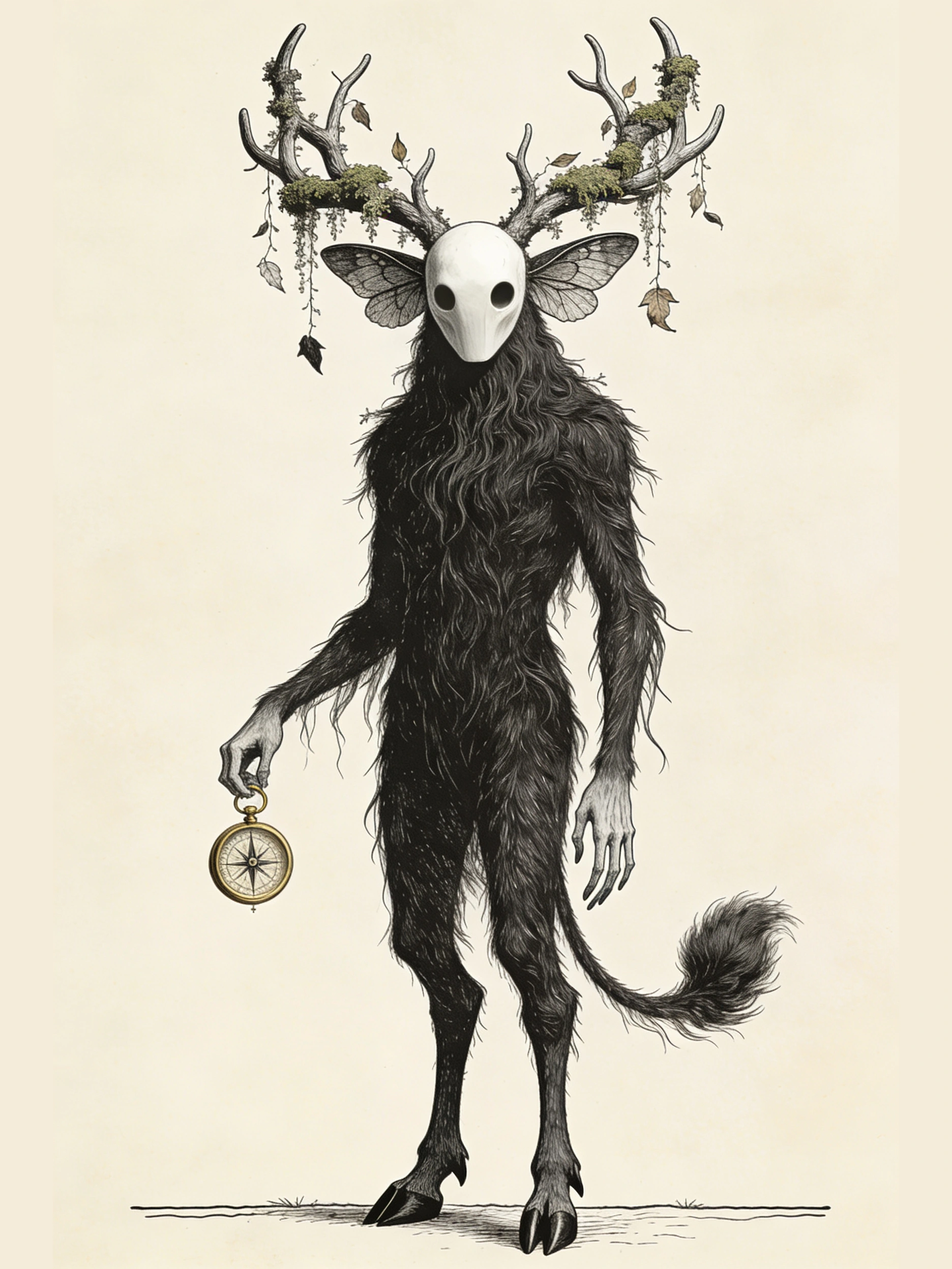
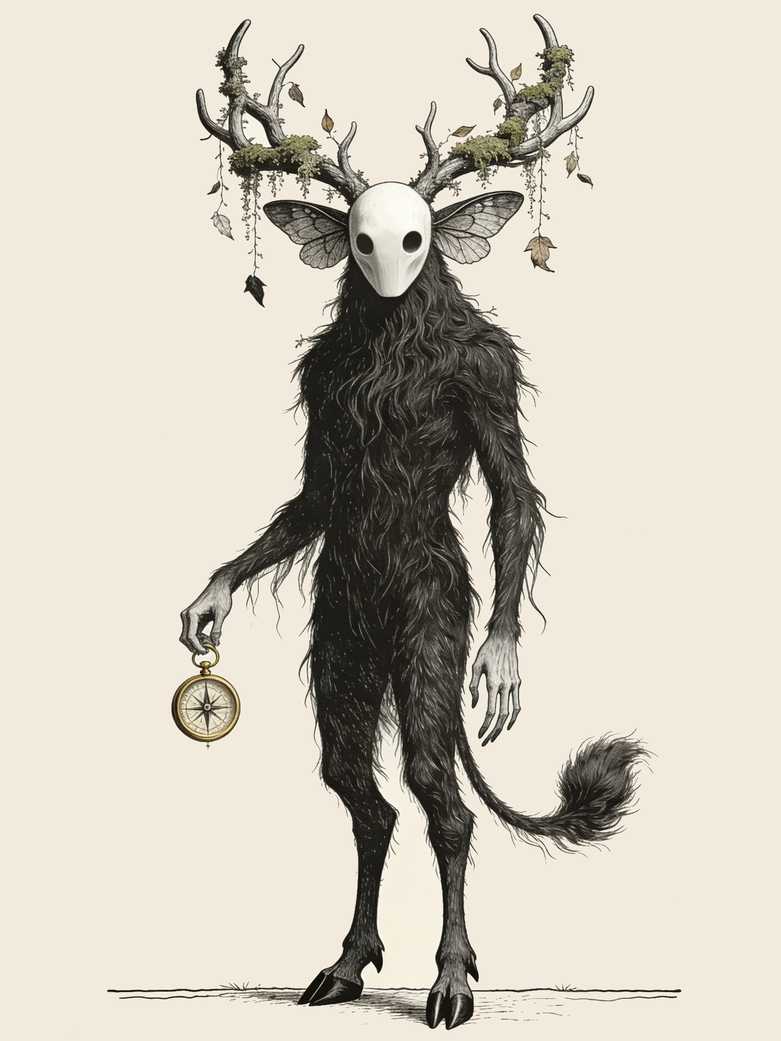
fix: normalize forest guardian card art

diff --git a/sw.js b/sw.js
@@ -1,5 +1,5 @@
 const BUILD_ID = new URLSearchParams(self.location.search).get("v") || "dev";
-const CACHE_VERSION = "cards-20260527-threads-between-worlds";
+const CACHE_VERSION = "cards-20260528-forest-guardian-standard";
 const CACHE_NAME = `wyrd-runtime-${BUILD_ID}-${CACHE_VERSION}`;
 const RUNTIME_CACHEABLE_DESTINATIONS = new Set(["image", "audio", "video", "font"]);
 
